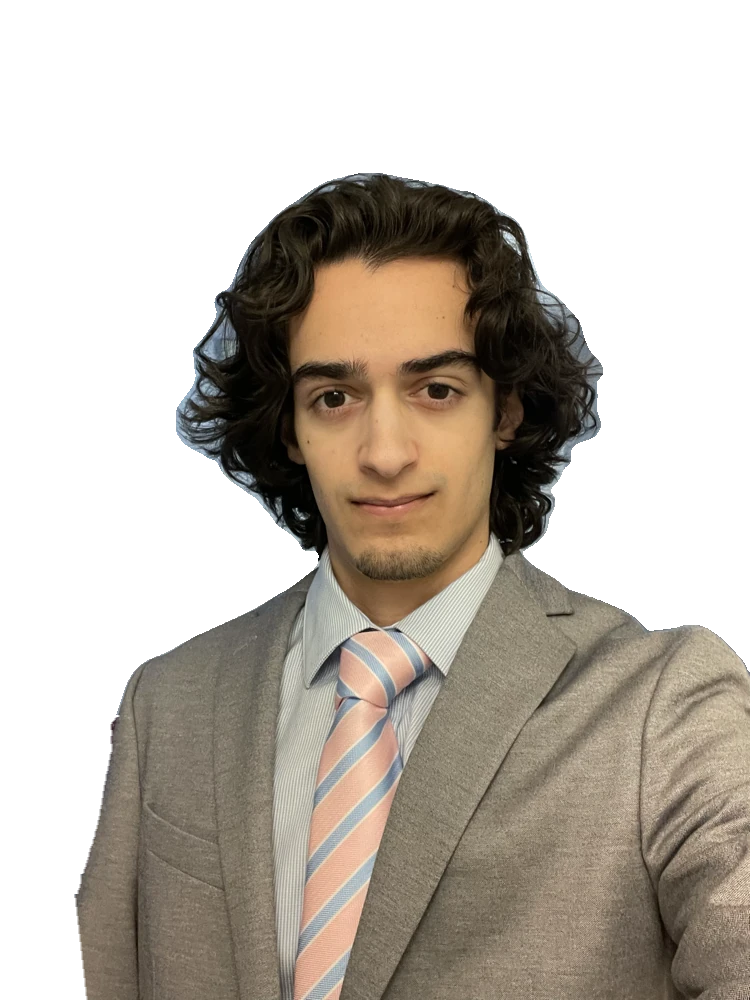
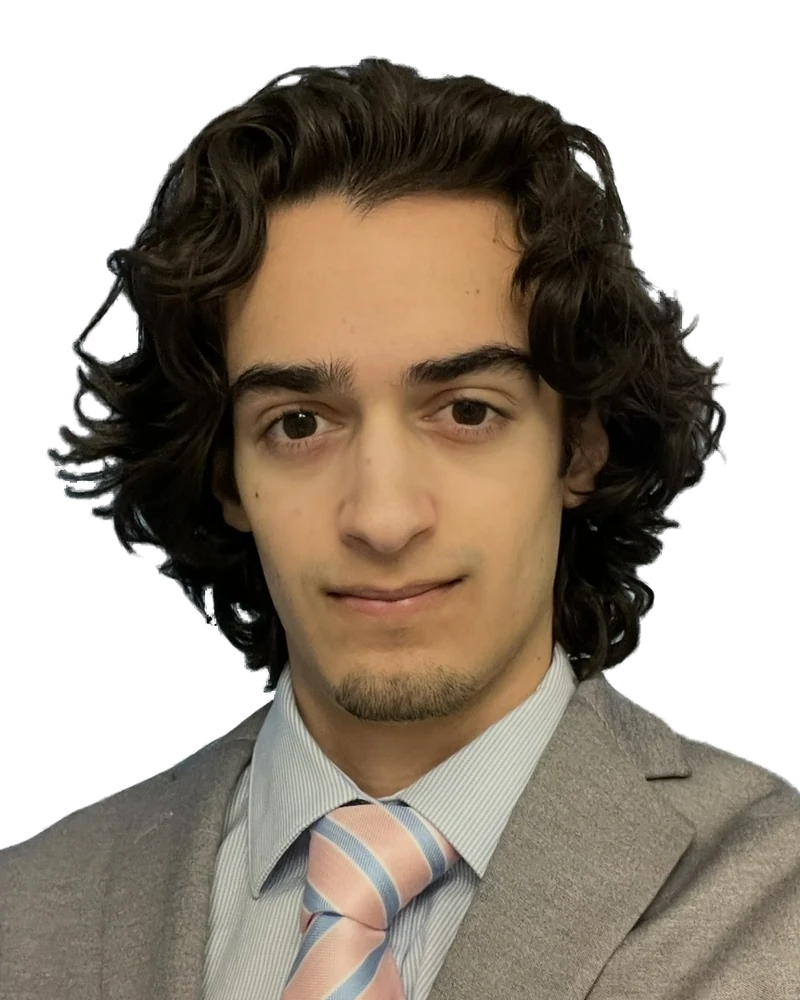
feat: replace portfolio portrait (#5)
Replace the portrait with the approved owner-supplied transparent 4:5 derivative and add an artifact regression contract.

diff --git a/tests/release-readiness.test.ts b/tests/release-readiness.test.ts
@@ -8,13 +8,37 @@ import { pageMetadata } from "../lib/metadata";
 const root = process.cwd();
 const source = (relativePath: string) => readFile(path.join(root, relativePath), "utf8");
 
+function extendedWebpMetadata(buffer: Buffer) {
+  expect(buffer.subarray(0, 4).toString("ascii")).toBe("RIFF");
+  expect(buffer.subarray(8, 12).toString("ascii")).toBe("WEBP");
+
+  for (let offset = 12; offset + 8 <= buffer.length; ) {
+    const type = buffer.subarray(offset, offset + 4).toString("ascii");
+    const size = buffer.readUInt32LE(offset + 4);
+    if (type === "VP8X") {
+      const payload = offset + 8;
+      return {
+        hasAlpha: Boolean(buffer[payload] & 0x10),
+        width: buffer.readUIntLE(payload + 4, 3) + 1,
+        height: buffer.readUIntLE(payload + 7, 3) + 1,
+      };
+    }
+    offset += 8 + size + (size % 2);
+  }
+
+  throw new Error("Expected an extended WebP portrait");
+}
+
 describe("production release contract", () => {
   it("ships an optimized transparent portrait rather than placeholder copy", async () => {
     const portrait = await source("components/HeadshotPortrait.tsx");
+    const assetPath = path.join(root, "public/images/jancarlos-sosa-portrait.webp");
+    const asset = extendedWebpMetadata(await readFile(assetPath));
     expect(portrait).toContain("next/image");
     expect(portrait).toContain("/images/jancarlos-sosa-portrait.webp");
     expect(portrait).not.toMatch(/pending|placeholder/i);
-    await expect(access(path.join(root, "public/images/jancarlos-sosa-portrait.webp"))).resolves.toBeUndefined();
+    expect(asset).toEqual({ width: 800, height: 1000, hasAlpha: true });
+    await expect(access(assetPath)).resolves.toBeUndefined();
   });
 
   it("does not advertise unhealthy live project endpoints", () => {
